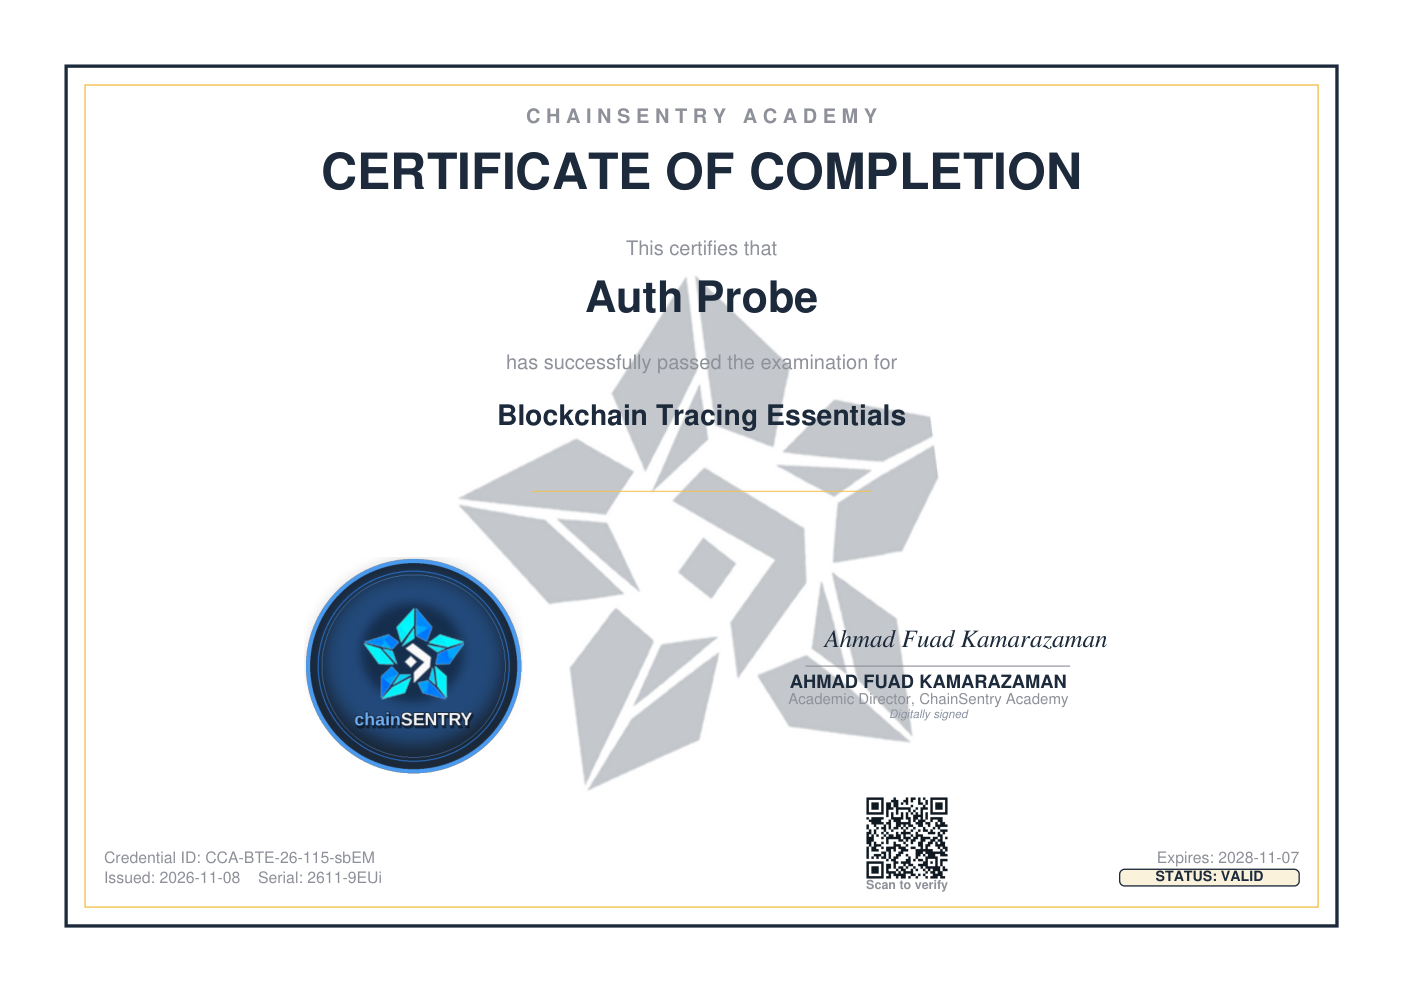
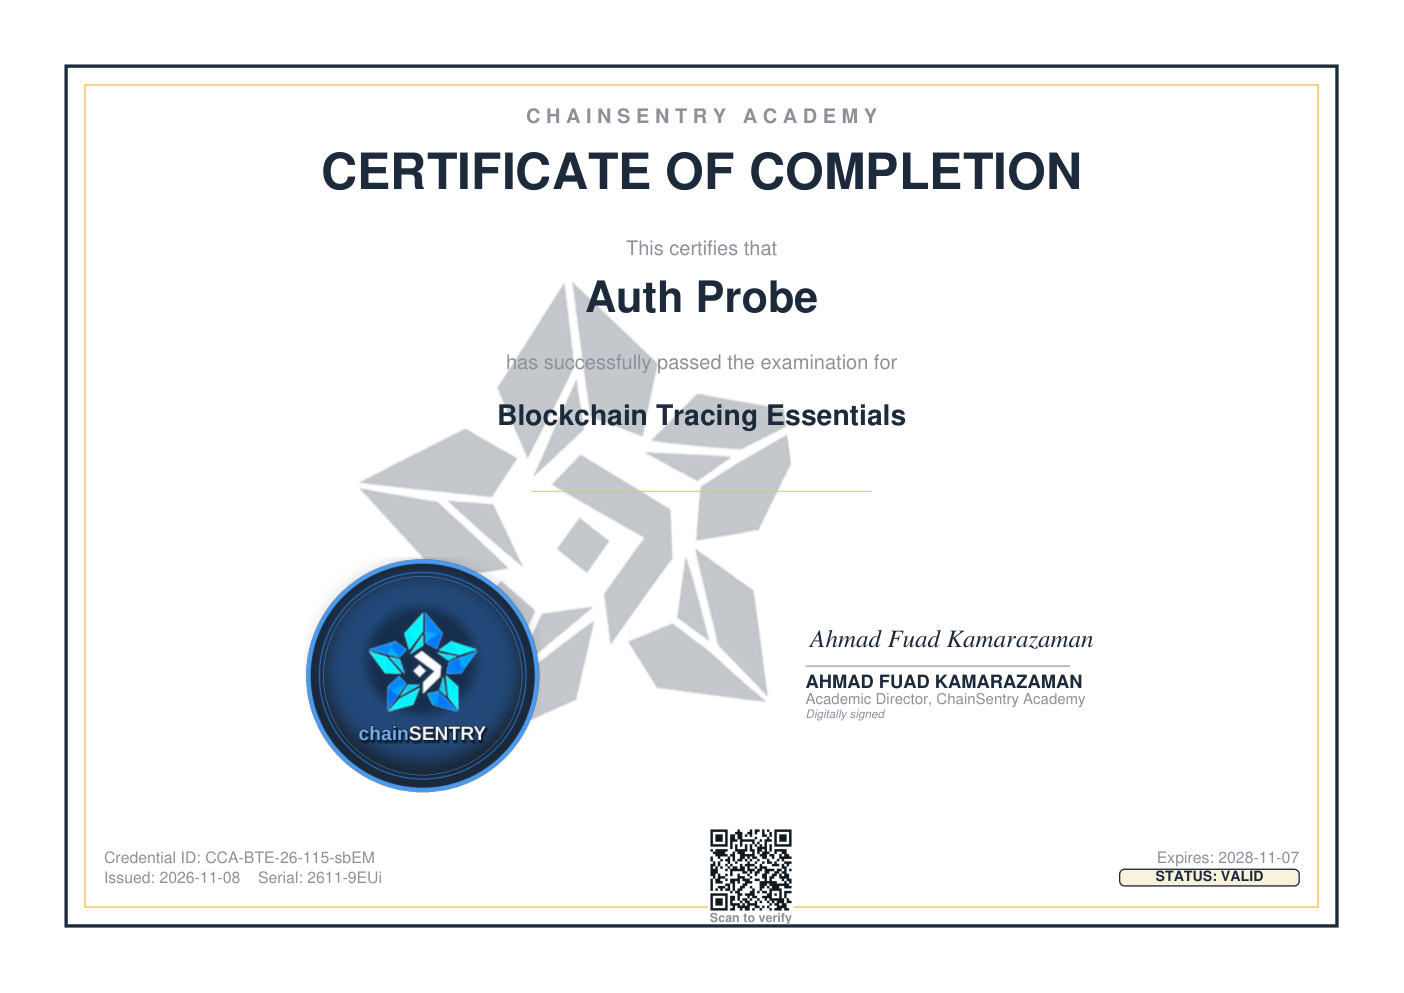
polish(design): silent-QA pass — watermark left-shifted off signature zone (108mm), QR stringWidth-measured optical centring in footer whitespace, signature block flush-left internally, seal 50mm anchor; vision 9/10 SHIP, gate 11/11 live; image 2.5.1

Changed region(s): [[0.2144, 0.281, 0.7963, 0.8117], [0.49, 0.8117, 0.5819, 0.9366], [0.6125, 0.7805, 0.6738, 0.9053]]

diff --git a/certification/certdesign.py b/certification/certdesign.py
@@ -52,9 +52,9 @@ def cert_pdf(holder: str, course: str, cid: str, issued: str, serial: str,
     # watermark: giant faint brand mark centred on the former void zone (behind content)
     wm_path = os.path.join(os.path.dirname(seal_path or ""), "watermark.png") if seal_path else None
     if wm_path and os.path.exists(wm_path):
-        wm_sz = 120*mm
+        wm_sz = 108*mm
         from reportlab.lib.utils import ImageReader as _IRWM
-        cv.drawImage(_IRWM(wm_path), W/2-wm_sz/2, H/2-wm_sz/2-6*mm, wm_sz, wm_sz)
+        cv.drawImage(_IRWM(wm_path), W/2-wm_sz/2-26*mm, H/2-wm_sz/2-2*mm, wm_sz, wm_sz)  # shifted left, off the signature column
 
     # frame — S8 same tokens
     cv.setStrokeColor(NAVY); cv.setLineWidth(2)
@@ -88,7 +88,7 @@ def cert_pdf(holder: str, course: str, cid: str, issued: str, serial: str,
 
     # seal band: seal LEFT-of-centre + SIGNATURE RIGHT-of-centre, on ONE shared
     # optical axis — S1 (seal has a job) + S7
-    SEAL_D = 46  # mm diameter
+    SEAL_D = 50  # mm diameter — anchors the lower-left
     seal_left = W/2 - 84*mm         # points
     seal_bottom = Y(R["sealzone_top"]) - SEAL_D*mm
     from reportlab.lib.utils import ImageReader
@@ -110,20 +110,20 @@ def cert_pdf(holder: str, course: str, cid: str, issued: str, serial: str,
         if os.path.exists(_sf):
             pdfmetrics.registerFont(TTFont("SigIt", _sf))
             cv.setFillColor(NAVY); cv.setFont("SigIt", 15)
-            cv.drawString(sig_left+4*mm, sig_y+4*mm, "Ahmad Fuad Kamarazaman")
+            cv.drawString(sig_left+1*mm, sig_y+4*mm, "Ahmad Fuad Kamarazaman")
         else:
             cv.setFillColor(NAVY); cv.setFont("Times-Italic", 15)
-            cv.drawString(sig_left+4*mm, sig_y+4*mm, "Ahmad Fuad Kamarazaman")
+            cv.drawString(sig_left+1*mm, sig_y+4*mm, "Ahmad Fuad Kamarazaman")
     except Exception:
         pass
     cv.setStrokeColor(GRAY); cv.setLineWidth(0.7)
     cv.line(sig_left, sig_y, sig_left+56*mm, sig_y)
     cv.setFillColor(NAVY); cv.setFont("Helvetica-Bold", 11)
-    cv.drawCentredString(sig_left+26*mm, sig_y-13, "AHMAD FUAD KAMARAZAMAN")
+    cv.drawString(sig_left, sig_y-13, "AHMAD FUAD KAMARAZAMAN")
     cv.setFillColor(GRAY); cv.setFont("Helvetica", 9)
-    cv.drawCentredString(sig_left+26*mm, sig_y-23, "Academic Director, ChainSentry Academy")
+    cv.drawString(sig_left, sig_y-23, "Academic Director, ChainSentry Academy")
     cv.setFillColor(HexColor("#8A94A0")); cv.setFont("Helvetica-Oblique", 7)
-    cv.drawCentredString(sig_left+26*mm, sig_y-31, "Digitally signed")
+    cv.drawString(sig_left, sig_y-31, "Digitally signed")
 
     # footer strip — SIMPLE, explicit, single baseline — S4
     fy = 23*mm  # inside BOTH rules, breathing room from the inner rule
@@ -152,8 +152,16 @@ def cert_pdf(holder: str, course: str, cid: str, issued: str, serial: str,
     qimg = qr.make_image(fill_color="#101820", back_color="white")  # near-black: scannability
     qbuf = _io.BytesIO(); qimg.save(qbuf, format="PNG"); qbuf.seek(0)
     qs = 18
-    qx = rx - 92*mm
-    qy_bottom = fy + 2
+    # measure the REAL left-block width (longest of the two footer lines) — no guessed extents
+    from reportlab.pdfbase.pdfmetrics import stringWidth as _sw
+    w_line1 = _sw(f"Credential ID: {cid}", "Helvetica", 9.5)
+    w_line2 = _sw(f"Issued: {issued}    Serial: {serial}", "Helvetica", 9.5)
+    left_edge = lx
+    right_edge = left_edge + max(w_line1, w_line2)
+    gap_mid_x = (right_edge + (rx - 38*mm))/2          # mid of whitespace up to the chip column
+    qx = gap_mid_x - qs*mm/2                           # true optical centre of the gap
+    gap_mid_y = fy + 8                                  # vertical centre of the two-line block
+    qy_bottom = gap_mid_y - qs*mm/2                     # QR centred against both lines
     cv.drawImage(ImageReader(qbuf), qx, qy_bottom, qs*mm, qs*mm)
     cv.setFillColor(GRAY); cv.setFont("Helvetica-Bold", 7.5)
     cv.drawCentredString(qx+qs/2*mm, qy_bottom-5.5, "Scan to verify")
